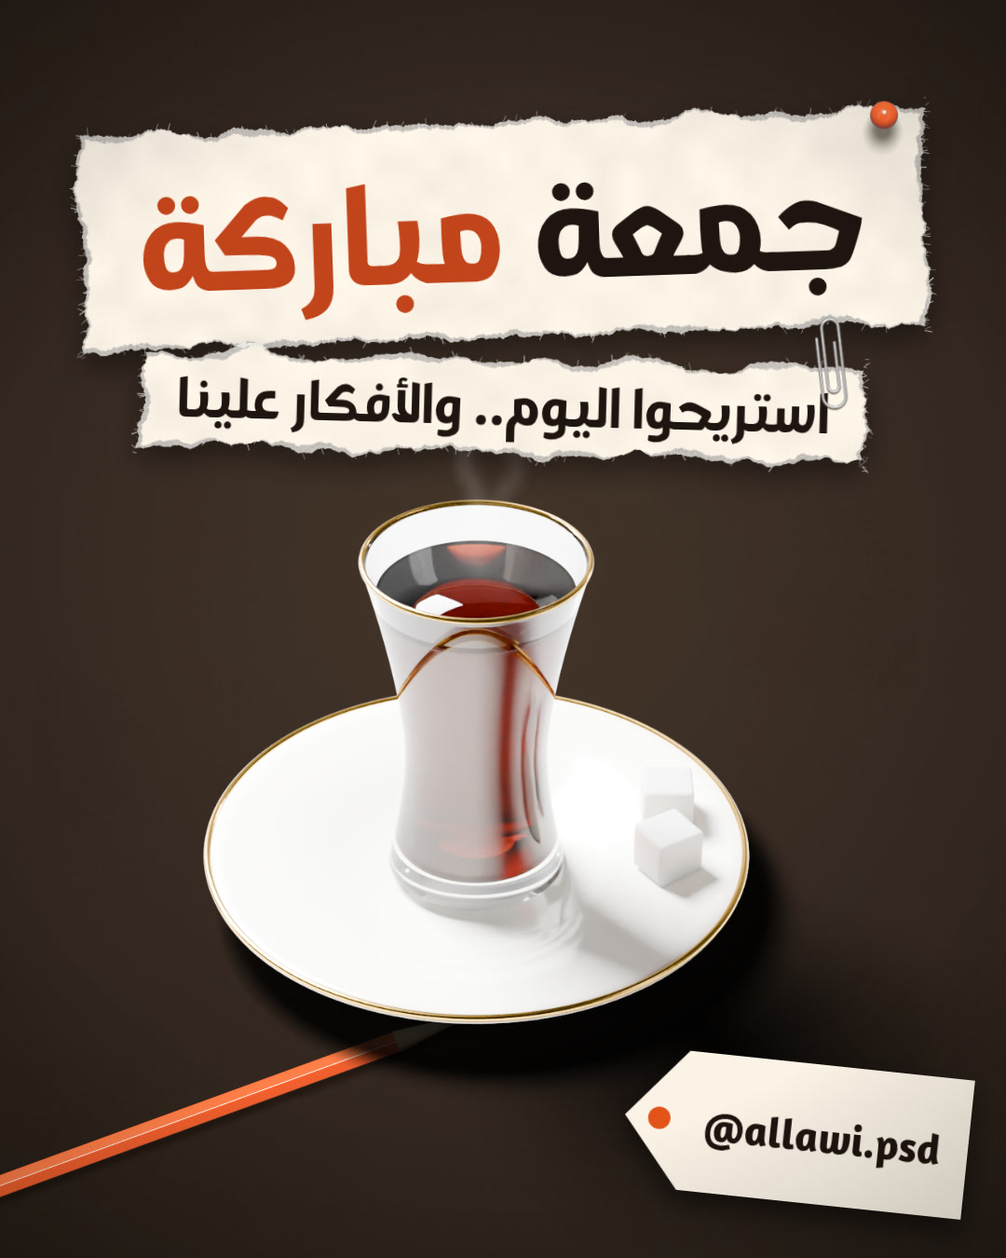
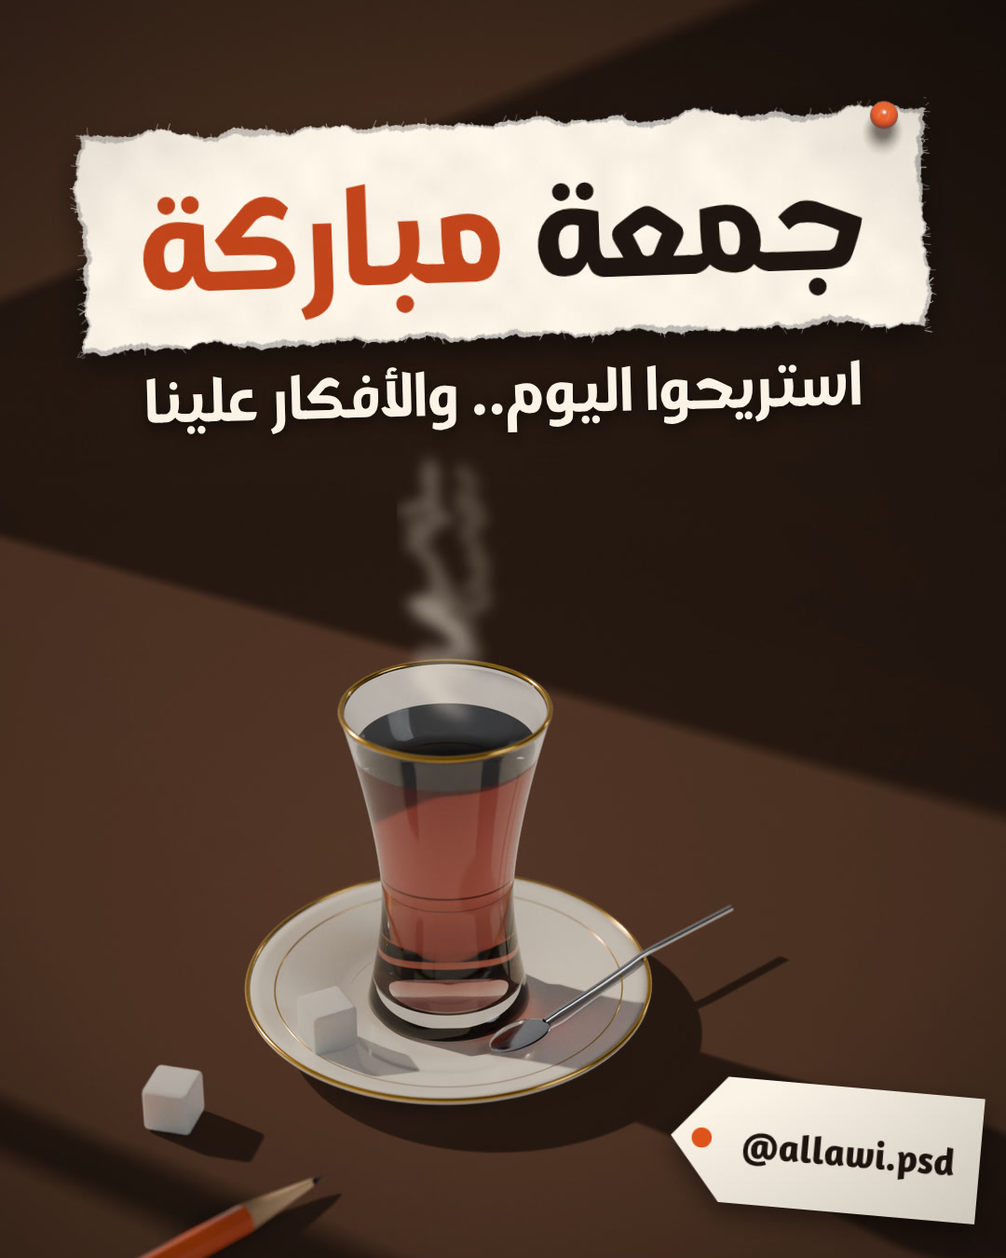
Friday post v2: photographic istikan in window light, clear glass, DOF
Claude-Session: https://claude.ai/code/session_01DCC6taaMNXtk2vTF7bYhTV

diff --git a/marketing/ig-friday-post/post.html b/marketing/ig-friday-post/post.html
@@ -9,9 +9,13 @@
 :root { --ink:#1f1510; --cream:#fbf3e6; --oink:#c2441a; --orange:#e2541b }
 * { margin:0; padding:0; box-sizing:border-box }
 body { background:#111; font-synthesis:none }
+/* the desk as the sun finds it: warm brown under the paper texture; the render on top darkens it where the window
+   frame and the objects throw their shadows */
 #post { position:relative; width:1080px; height:1350px; overflow:hidden; direction:rtl; font-family:'DG Sahabah'; font-weight:400;
-  background:radial-gradient(110% 80% at 50% 45%, #33241b, var(--ink) 62%, #140d09) }
-#post::before { content:''; position:absolute; inset:0; background:url(assets/paper.jpg) center/cover; mix-blend-mode:screen; opacity:.1 }
+  background:radial-gradient(120% 90% at 40% 70%, #57392a, #4a3122 50%, #3a261b) }
+#post::before { content:''; position:absolute; inset:0; background:url(assets/paper.jpg) center/cover; mix-blend-mode:multiply; opacity:.22 }
+#still { position:absolute; inset:0; width:1080px; height:1350px; z-index:5 }
+.hand { position:absolute; left:0; right:0; text-align:center; color:var(--cream); white-space:nowrap; z-index:8; text-shadow:0 4px 14px rgba(0,0,0,.5) }
 #grain { position:absolute; inset:0; background:url(assets/grain.png) repeat; background-size:420px; mix-blend-mode:overlay; opacity:.07; z-index:20 }
 #vig { position:absolute; inset:0; background:radial-gradient(100% 75% at 50% 50%, rgba(0,0,0,0) 55%, rgba(0,0,0,.35) 100%); z-index:19 }
 .strip { position:absolute; left:0; right:0; display:flex; justify-content:center; z-index:8 }
@@ -19,10 +23,8 @@ body { background:#111; font-synthesis:none }
   filter:drop-shadow(0 14px 16px rgba(0,0,0,.45)) }
 .strip .k { color:var(--oink) }
 .strip img { position:absolute; pointer-events:none }
-#tea { position:absolute; left:40px; top:535px; width:1040px; z-index:5 }
-#pencil { position:absolute; left:-200px; top:1170px; width:760px; transform:rotate(-20deg); z-index:4 }
-#steam { position:absolute; left:0; top:0; z-index:6; overflow:visible; filter:blur(7px) }
-#steam path { fill:none; stroke:#fff; stroke-linecap:round; stroke-width:16 }
+#steam { position:absolute; left:0; top:0; z-index:6; overflow:visible }
+#steam path { fill:none; stroke:#fff3e2; stroke-linecap:round; stroke-width:22 }
 .ktag { position:absolute; width:370px; height:150px; z-index:7; filter:drop-shadow(0 12px 14px rgba(0,0,0,.45)) }
 .ktag .tg { position:absolute; inset:0; background:var(--cream); clip-path:polygon(0 50%, 17% 0, 100% 0, 100% 100%, 17% 100%) }
 .ktag .hole { position:absolute; left:10%; top:50%; width:24px; height:24px; margin:-12px 0 0 -12px; border-radius:50%; background:var(--orange) }
@@ -33,15 +35,17 @@ body { background:#111; font-synthesis:none }
 <body>
 <div id="post">
   <div class="strip" style="top:120px; transform:rotate(-2deg)"><span style="padding:30px 70px 44px; font-size:150px; line-height:1.2">جمعة <span class="k">مباركة</span><img src="assets/pin-orange.png" alt="" style="right:10px; top:-14px; width:90px" /></span></div>
-  <div class="strip" style="top:375px; transform:rotate(1.5deg)"><span style="padding:18px 48px 28px; font-size:60px; line-height:1.3">استريحوا اليوم.. والأفكار علينا<img src="assets/clip-silver.png" alt="" style="right:16px; top:-58px; width:60px; transform:rotate(-8deg)" /></span></div>
-  <img id="pencil" src="assets/pencil.png" alt="" />
-  <img id="tea" src="assets/tea.png" alt="" />
+  <div class="hand" style="top:375px; font-size:66px; line-height:1.3; transform:rotate(-1.5deg)">استريحوا اليوم.. والأفكار علينا</div>
+  <img id="still" src="assets/still.png" alt="" />
   <svg id="steam" width="1080" height="1350" viewBox="0 0 1080 1350">
-    <path d="M500 600 C 478 570, 528 548, 505 515 S 520 470, 498 440" style="opacity:.18" />
-    <path d="M532 604 C 560 575, 515 552, 545 522 S 530 480, 555 450" style="opacity:.13" />
-    <path d="M516 610 C 503 590, 535 572, 517 548" style="opacity:.22" />
+    <defs><filter id="smoke" x="-50%" y="-50%" width="200%" height="200%"><feTurbulence type="fractalNoise" baseFrequency="0.011 0.028" numOctaves="3" seed="7" /><feDisplacementMap in="SourceGraphic" scale="70" /><feGaussianBlur stdDeviation="7" /></filter></defs>
+    <g filter="url(#smoke)" transform="translate(462 742)">
+      <path d="M0 0 C -25 -40, 30 -70, 5 -120 S 20 -190, -5 -240" style="opacity:.28" />
+      <path d="M30 4 C 55 -35, 10 -75, 40 -115 S 25 -175, 50 -215" style="opacity:.2" />
+      <path d="M14 8 C 0 -20, 30 -45, 12 -80" style="opacity:.3" />
+    </g>
   </svg>
-  <div class="ktag" style="right:40px; bottom:60px; transform:rotate(6deg)"><i class="tg"></i><i class="hole"></i><div>@allawi.psd</div></div>
+  <div class="ktag" style="right:34px; bottom:36px; transform:rotate(5deg) scale(.9); transform-origin:100% 100%"><i class="tg"></i><i class="hole"></i><div>@allawi.psd</div></div>
   <div id="vig"></div><div id="grain"></div>
 </div>
 <script src="tear.js"></script>

diff --git a/marketing/ig-friday-post/props/tea.py b/marketing/ig-friday-post/props/tea.py
@@ -1,12 +1,13 @@
-# An Iraqi استكان of tea on its saucer with two sugar cubes, for the Friday post. Rendered in Cycles at a three-quarter
-# view onto a shadow catcher (the PNG carries the glass and its shadow on transparency), lit by the CC0 «Studio Small 09»
-# HDRI plus a soft key from the top left, like the desk props of ../hf-one-second-reel.
-#   blender -b -P tea.py -- OUT.png [HDRI]
+# The Friday still: an Iraqi استكان of tea on its saucer, a teaspoon, two sugar cubes and his orange pencil, lit by warm
+# morning sun through a window (a window frame between the sun and the desk throws the pane shadows), shot like a photo
+# (a 60 mm lens at f/5, focused on the glass). Rendered in Cycles over a shadow catcher at the post's own frame
+# (1080×1350), so the PNG lays straight over the page's desk: objects, their shadows and the window shadow.
+#   blender -b -P tea.py -- OUT.png HDRI        (SAMPLES=24 PCT=30 for a quick test)
 import bpy, bmesh, math, sys, os
 from mathutils import Vector
 
 argv = sys.argv[sys.argv.index('--') + 1:]
-OUT, HDRI = argv[0], (argv[1] if len(argv) > 1 else None)
+OUT, HDRI = argv[0], argv[1]
 CM = 0.01
 
 
@@ -19,27 +20,49 @@ bpy.ops.wm.read_factory_settings(use_empty=True)
 sc = bpy.context.scene
 sc.render.engine = 'CYCLES'
 sc.cycles.device = 'CPU'
-sc.cycles.samples = int(os.environ.get('SAMPLES', 160))
+sc.cycles.samples = int(os.environ.get('SAMPLES', 192))
 sc.cycles.use_denoising = True
-sc.cycles.max_bounces = 16
-sc.cycles.transmission_bounces = 16
+sc.cycles.max_bounces = 24
+sc.cycles.transmission_bounces = 24
+sc.cycles.volume_bounces = 2
 sc.cycles.caustics_refractive = True
+sc.cycles.caustics_reflective = False
+sc.cycles.blur_glossy = 0.6
 sc.render.film_transparent = True
 sc.view_settings.view_transform = 'AgX'
-sc.render.resolution_x = sc.render.resolution_y = 1400
+sc.render.resolution_x, sc.render.resolution_y = 1080, 1350
+sc.render.resolution_percentage = int(os.environ.get('PCT', 150))
 sc.render.image_settings.color_mode = 'RGBA'
+
+# a dim room (the CC0 «Studio Small 09» HDRI, turned down) and the morning sun coming in from the back left
 w = bpy.data.worlds.new('w'); w.use_nodes = True; sc.world = w
-nt = w.node_tree
-if HDRI:
-    env = nt.nodes.new('ShaderNodeTexEnvironment'); env.image = bpy.data.images.load(HDRI)
-    nt.links.new(env.outputs['Color'], nt.nodes['Background'].inputs['Color'])
-    nt.nodes['Background'].inputs['Strength'].default_value = 0.7
-else:
-    nt.nodes['Background'].inputs['Color'].default_value = (0.5, 0.45, 0.4, 1)
-ld = bpy.data.lights.new('key', 'AREA'); ld.size = 0.25; ld.energy = 60
-lo = bpy.data.objects.new('key', ld); sc.collection.objects.link(lo)
-lo.location = (-0.18, 0.32, 0.42)
-lo.rotation_euler = (Vector((0, 0, 0.03)) - lo.location).to_track_quat('-Z', 'Y').to_euler()
+env = w.node_tree.nodes.new('ShaderNodeTexEnvironment'); env.image = bpy.data.images.load(HDRI)
+w.node_tree.links.new(env.outputs['Color'], w.node_tree.nodes['Background'].inputs['Color'])
+w.node_tree.nodes['Background'].inputs['Strength'].default_value = 0.22
+L = Vector((-0.62, 0.55, 0.52)).normalized()            # towards the sun
+sd = bpy.data.lights.new('sun', 'SUN'); sd.energy = 4.2; sd.angle = math.radians(1.6); sd.color = (1.0, 0.8, 0.58)
+so = bpy.data.objects.new('sun', sd); sc.collection.objects.link(so)
+so.rotation_euler = (-L).to_track_quat('-Z', 'Y').to_euler()
+
+# the window: a wall with a two-by-two paned opening between the sun and the desk (seen only through its shadow)
+def window(dist=0.42, hole=(0.34, 0.44), bar=0.018, off=(0.0, 0.0), bars=(-0.1, 0.1)):
+    n = L
+    u = n.cross(Vector((0, 0, 1))).normalized()
+    v = u.cross(n).normalized()
+    c = n * dist
+    hw, hh = hole[0] / 2, hole[1] / 2
+    ox, oy = off
+    rects = [(-3, 3, oy + hh, 3), (-3, 3, -3, oy - hh), (-3, ox - hw, oy - hh, oy + hh), (ox + hw, 3, oy - hh, oy + hh),
+             (ox + bars[0] - bar / 2, ox + bars[0] + bar / 2, oy - hh, oy + hh), (ox - hw, ox + hw, oy + bars[1] - bar / 2, oy + bars[1] + bar / 2)]
+    bm = bmesh.new()
+    for x0, x1, y0, y1 in rects:
+        vs = [bm.verts.new(c + u * x + v * y) for x, y in ((x0, y0), (x1, y0), (x1, y1), (x0, y1))]
+        bm.faces.new(vs)
+    me = bpy.data.meshes.new('window'); bm.to_mesh(me)
+    ob = bpy.data.objects.new('window', me); sc.collection.objects.link(ob)
+    ob.visible_camera = False
+    return ob
+window()
 
 
 def mat(name, color, rough=0.3, metal=0.0, trans=0.0, ior=1.45, sss=0.0, coat=0.0):
@@ -55,72 +78,146 @@ def mat(name, color, rough=0.3, metal=0.0, trans=0.0, ior=1.45, sss=0.0, coat=0.
     return m
 
 
-def lathe(name, prof, m, segs=128):
-    """A solid of revolution from a closed (r, z) profile in cm."""
+def spin(name, prof, mats, closed, segs=160, z0=0.0):
+    """A surface of revolution from an (r, z) polyline in cm; open profiles stay open (no closing edge)."""
     bm = bmesh.new()
-    vs = [bm.verts.new((r * CM, 0, z * CM)) for r, z in prof]
-    es = [bm.edges.new((vs[i], vs[(i + 1) % len(vs)])) for i in range(len(vs))]
+    vs = [bm.verts.new((r * CM, 0, (z + z0) * CM)) for r, z in prof]
+    es = [bm.edges.new((vs[i], vs[i + 1])) for i in range(len(vs) - 1)]
+    if closed:
+        es.append(bm.edges.new((vs[-1], vs[0])))
     bmesh.ops.spin(bm, geom=vs + es, cent=(0, 0, 0), axis=(0, 0, 1), angle=math.tau, steps=segs, use_duplicate=False)
-    bmesh.ops.remove_doubles(bm, verts=bm.verts, dist=1e-6)
-    bmesh.ops.recalc_face_normals(bm, faces=bm.faces)
+    bmesh.ops.remove_doubles(bm, verts=bm.verts, dist=1e-7)
     me = bpy.data.meshes.new(name); bm.to_mesh(me); me.shade_smooth()
-    ob = bpy.data.objects.new(name, me); sc.collection.objects.link(ob); me.materials.append(m)
+    ob = bpy.data.objects.new(name, me); sc.collection.objects.link(ob)
+    for m in mats:
+        me.materials.append(m)
     return ob
 
 
-def curve(z, r0, r1, n, z0, z1):
-    return [(r0 + (r1 - r0) * (0.5 - 0.5 * math.cos(math.pi * i / n)), z0 + (z1 - z0) * i / n) for i in range(n + 1)]
+def outward(ob, test):
+    """Flip every face if the face nearest `test` (a point in cm) does not point the way `test[3:]` says."""
+    me = ob.data
+    p = Vector(test[:3]) * CM
+    f = min(me.polygons, key=lambda f: (f.center - p).length)
+    if f.normal.dot(Vector(test[3:])) < 0:
+        for f in me.polygons:
+            f.flip()
+        me.update()
 
 
-# the glass: a thick base, a waist, a flared lip (outer up, inner down)
-def r_out(z):   # outer radius at height z (cm)
+# ── the istikan: a thick base, a waist, a flared lip. The surfaces are the real interfaces: air|glass outside and
+# above the tea, glass|tea (IOR 1.33/1.5) on the inner wall and floor below the tea line, tea|air on top.
+H, WALL, FLOOR, ZT = 8.6, 0.11, 0.75, 7.55
+def r_out(z):
     if z < 3.4:
         return 2.15 - 0.45 * math.sin(z / 3.4 * math.pi / 2)
     return 1.70 + 0.95 * ((z - 3.4) / 5.2) ** 1.5
-H = 8.6
-outer = [(0, 0), (2.0, 0), (2.15, 0.12)] + [(r_out(z), z) for z in [0.3 + i * (H - 0.3) / 40 for i in range(41)]]
-inner = [(r_out(z) - 0.11, z) for z in [H - i * (H - 0.75) / 40 for i in range(41)]] + [(0, 0.75)]
-glass = mat('glass', '#ffffff', rough=0.02, trans=1.0, ior=1.5)
-lathe('glass', outer + inner, glass)
-# the tea, nearly to the lip, deep amber
-tz = 7.7
-tea_prof = [(0, 0.74)] + [(r_out(z) - 0.10, z) for z in [0.77 + i * (tz - 0.77) / 30 for i in range(31)]] + [(0, tz)]
-tea = mat('tea', '#8a2f08', rough=0.03, trans=1.0, ior=1.34)
-vol = tea.node_tree.nodes.new('ShaderNodeVolumeAbsorption')
-vol.inputs['Color'].default_value = srgb('#b34a0c'); vol.inputs['Density'].default_value = 140
-tea.node_tree.links.new(vol.outputs[0], tea.node_tree.nodes['Material Output'].inputs['Volume'])
-lathe('tea', tea_prof, tea)
-# a gold line on the lip
-gold = mat('gold', '#e0b046', rough=0.18, metal=1.0)
-bpy.ops.mesh.primitive_torus_add(major_radius=r_out(H) * CM - 0.0005, minor_radius=0.0007, location=(0, 0, (H - 0.05) * CM), major_segments=128, minor_segments=12)
-bpy.context.active_object.data.materials.append(gold)
-# the saucer: white porcelain with a gold rim, the glass sitting in its well
-porc = mat('porc', '#f6f2ea', rough=0.12, sss=0.05, coat=0.4)
-sau = [(0, -0.5), (3.0, -0.5), (3.2, -0.42), (3.4, -0.2), (6.2, 0.25), (6.6, 0.45), (6.55, 0.6), (6.1, 0.48), (3.35, 0.05), (3.1, -0.15), (0, -0.15)]
-lathe('saucer', sau, porc)
-bpy.ops.mesh.primitive_torus_add(major_radius=6.55 * CM, minor_radius=0.0009, location=(0, 0, 0.55 * CM), major_segments=160, minor_segments=12)
-bpy.context.active_object.data.materials.append(gold)
-# lift everything so the saucer foot sits on the desk
-for o in sc.objects:
-    if o.type == 'MESH':
-        o.location.z += 0.5 * CM
-# two sugar cubes on the saucer
-sugar = mat('sugar', '#fbfaf6', rough=0.85, sss=0.3)
-nz = sugar.node_tree.nodes.new('ShaderNodeTexNoise'); nz.inputs['Scale'].default_value = 900
-bp = sugar.node_tree.nodes.new('ShaderNodeBump'); bp.inputs['Strength'].default_value = 0.6
-sugar.node_tree.links.new(nz.outputs['Fac'], bp.inputs['Height']); sugar.node_tree.links.new(bp.outputs['Normal'], sugar.node_tree.nodes['Principled BSDF'].inputs['Normal'])
-for (x, y, rz) in ((4.4, -1.6, 20), (4.9, 0.3, -12)):
-    bpy.ops.mesh.primitive_cube_add(size=1.25 * CM, location=(x * CM, y * CM, 1.35 * CM), rotation=(0, 0, math.radians(rz)))
+r_in = lambda z: r_out(z) - WALL
+SAU_TOP = 0.33           # the glass stands in the saucer's well
+steps = lambda a, b, n: [a + (b - a) * i / n for i in range(n + 1)]
+glass_prof = [(r_in(z), z) for z in steps(ZT, H - 0.02, 12)] + [(r_out(H) - 0.03, H + 0.015)] + \
+             [(r_out(z), z) for z in steps(H - 0.02, 0.3, 50)] + [(2.13, 0.1), (2.02, 0.0), (1.2, 0.0), (0, 0.06)]
+glass = mat('glass', '#ffffff', rough=0.0, trans=1.0, ior=1.5)
+g = spin('glass', glass_prof, [glass], closed=False, z0=SAU_TOP)
+outward(g, (r_out(5) * math.cos(0.01), r_out(5) * math.sin(0.01), 5 + SAU_TOP, 1, 0, 0))
+
+def tea_mat(name, ior):
+    m = mat(name, '#ffffff', rough=0.0, trans=1.0, ior=ior)
+    vol = m.node_tree.nodes.new('ShaderNodeVolumeAbsorption')
+    vol.inputs['Color'].default_value = srgb('#cc520a'); vol.inputs['Density'].default_value = 80
+    m.node_tree.links.new(vol.outputs[0], m.node_tree.nodes['Material Output'].inputs['Volume'])
+    return m
+tea_wall, tea_top = tea_mat('tea-glass', 1.33 / 1.5), tea_mat('tea-air', 1.33)
+tea_prof = [(0, FLOOR), (r_in(FLOOR), FLOOR)] + [(r_in(z), z) for z in steps(FLOOR, ZT, 40)][1:] + [(0, ZT)]
+t = spin('tea', tea_prof, [tea_wall, tea_top], closed=True, z0=SAU_TOP)
+bm = bmesh.new(); bm.from_mesh(t.data); bmesh.ops.recalc_face_normals(bm, faces=bm.faces); bm.to_mesh(t.data)
+for f in t.data.polygons:
+    f.material_index = 1 if f.normal.z > 0.9 and abs(f.center.z - (ZT + SAU_TOP) * CM) < 0.001 else 0
+
+gold = mat('gold', '#e3b24a', rough=0.16, metal=1.0)
+def ring(r, z, thick=0.07):
+    bpy.ops.mesh.primitive_torus_add(major_radius=r * CM, minor_radius=thick * CM, location=(0, 0, z * CM), major_segments=200, minor_segments=12)
+    o = bpy.context.active_object; o.data.materials.append(gold); o.data.shade_smooth()
+ring(r_out(H) - 0.05, H + SAU_TOP - 0.02)
+
+# ── the saucer: white porcelain, a gold rim and a fine gold line inside it
+porc = mat('porc', '#f7f2e9', rough=0.1, sss=0.04, coat=0.5)
+LIFT = 0.45
+sau = [(0, -0.45), (2.4, -0.45), (2.6, -0.4), (2.85, -0.2), (4.9, 0.2), (5.3, 0.38), (5.25, 0.5), (4.92, 0.41), (2.95, 0.05), (2.7, -0.12), (0, -0.12)]
+spin('saucer', sau, [porc], closed=True, z0=LIFT)
+s = sc.objects['saucer']; bm = bmesh.new(); bm.from_mesh(s.data); bmesh.ops.recalc_face_normals(bm, faces=bm.faces); bm.to_mesh(s.data)
+ring(5.26, 0.47 + LIFT, 0.06)
+ring(4.55, 0.33 + LIFT, 0.025)
+
+def z_sau(r):            # the saucer's top surface (cm, above the desk)
+    pts = [(0, -0.12), (2.7, -0.12), (2.95, 0.05), (4.92, 0.41), (5.25, 0.5), (9, 0.5)]
+    for (a, za), (b, zb) in zip(pts, pts[1:]):
+        if r <= b:
+            return LIFT + za + (zb - za) * (r - a) / (b - a)
+    return LIFT + 0.5
+
+# ── a teaspoon lying across the saucer to the right of the glass
+steel = mat('steel', '#d8d9dc', rough=0.12, metal=1.0)
+cx, cy, ang = 3.7, -0.9, math.radians(58)
+u = Vector((math.sin(ang), math.cos(ang), 0))
+P = lambda t: Vector((cx, cy, 0)) + u * t
+bowl_t = -2.6
+bp = P(bowl_t)
+bpy.ops.mesh.primitive_uv_sphere_add(radius=1, segments=48, ring_count=24, location=(bp.x * CM, bp.y * CM, (z_sau(bp.length) + 0.16) * CM))
+bowl = bpy.context.active_object; bowl.scale = (0.55 * CM, 0.95 * CM, 0.16 * CM); bowl.rotation_euler = (0, 0, -ang)
+bowl.data.materials.append(steel); bowl.data.shade_smooth()
+cu = bpy.data.curves.new('handle', 'CURVE'); cu.dimensions = '3D'; cu.bevel_depth = 0.085 * CM; cu.bevel_resolution = 4
+sp = cu.splines.new('POLY')
+ts = steps(-1.75, 5.2, 14)
+sp.points.add(len(ts) - 1)
+for p, tt in zip(sp.points, ts):
+    q = P(tt)
+    p.co = (q.x * CM, q.y * CM, (max(z_sau(q.length), z_sau(min(q.length, 5.25))) + 0.1) * CM, 1)
+hd = bpy.data.objects.new('handle', cu); sc.collection.objects.link(hd); cu.materials.append(steel)
+
+# ── two sugar cubes: one on the saucer, one on the desk
+sugar = mat('sugar', '#fbfaf6', rough=0.85, sss=0.35)
+nz = sugar.node_tree.nodes.new('ShaderNodeTexNoise'); nz.inputs['Scale'].default_value = 1100
+bpn = sugar.node_tree.nodes.new('ShaderNodeBump'); bpn.inputs['Strength'].default_value = 0.7
+sugar.node_tree.links.new(nz.outputs['Fac'], bpn.inputs['Height']); sugar.node_tree.links.new(bpn.outputs['Normal'], sugar.node_tree.nodes['Principled BSDF'].inputs['Normal'])
+for (x, y, z, rz) in ((-3.4, -1.9, z_sau(3.9) + 0.62, 18), (-7.4, -3.6, 0.62, -24)):
+    bpy.ops.mesh.primitive_cube_add(size=1.2 * CM, location=(x * CM, y * CM, z * CM), rotation=(0, 0, math.radians(rz)))
     c = bpy.context.active_object; c.data.materials.append(sugar)
-    b = c.modifiers.new('bv', 'BEVEL'); b.width = 0.0012; b.segments = 3
-# the desk under it: a shadow catcher
-bpy.ops.mesh.primitive_plane_add(size=1.0)
+    b = c.modifiers.new('bv', 'BEVEL'); b.width = 0.0013; b.segments = 3
+
+# ── his orange pencil, lying in front, out of focus
+paint = mat('paint', '#e2541b', rough=0.3, coat=0.35)
+wood = mat('wood', '#e3b98c', rough=0.75)
+lead = mat('lead', '#141416', rough=0.35, metal=0.4)
+pen = bpy.data.objects.new('pencil', None); sc.collection.objects.link(pen)
+R = 0.36
+def pcyl(name, m, r1, r2, x0, x1, segs, rot=0.0):
+    bm = bmesh.new(); bmesh.ops.create_cone(bm, cap_ends=True, segments=segs, radius1=r1 * CM, radius2=r2 * CM, depth=(x1 - x0) * CM)
+    me = bpy.data.meshes.new(name); bm.to_mesh(me)
+    if segs > 6:
+        me.shade_smooth()
+    o = bpy.data.objects.new(name, me); sc.collection.objects.link(o); me.materials.append(m)
+    o.rotation_mode = 'ZYX'; o.rotation_euler = (0, math.radians(90), rot); o.location = ((x0 + x1) / 2 * CM, 0, 0); o.parent = pen
+    return o
+body = pcyl('body', paint, R, R, -16, 0, 6, math.radians(30))
+bv = body.modifiers.new('bv', 'BEVEL'); bv.width = 0.03 * CM; bv.segments = 2
+pcyl('cone', wood, R * 0.93, 0.1, 0, 1.9, 48)
+pcyl('tip', lead, 0.1, 0.01, 1.9, 2.3, 32)
+pen.location = (-6.0 * CM, -8.0 * CM, R * math.cos(math.pi / 6) * CM)
+pen.rotation_euler = (0, 0, math.radians(32))
+
+# the desk: a shadow catcher
+bpy.ops.mesh.primitive_plane_add(size=3.0)
 bpy.context.active_object.is_shadow_catcher = True
-# camera: three-quarter view from the front, a little from the right
-cd = bpy.data.cameras.new('cam'); cd.lens = 85
+
+# ── the camera: low and close, a 60 mm lens at f/5 focused on the glass
+cd = bpy.data.cameras.new('cam'); cd.lens = 60; cd.sensor_fit = 'VERTICAL'; cd.sensor_height = 30
+cd.dof.use_dof = True; cd.dof.aperture_fstop = 5.0
 co = bpy.data.objects.new('cam', cd); sc.collection.objects.link(co); sc.camera = co
-el, az, d = math.radians(38), math.radians(-12), 0.64
-co.location = (d * math.cos(el) * math.sin(az), -d * math.cos(el) * math.cos(az), d * math.sin(el))
-co.rotation_euler = (Vector((0, 0, 0.035)) - co.location).to_track_quat('-Z', 'Y').to_euler()
+el, az, d = math.radians(26), math.radians(-10), 0.64
+tgt = Vector((0.018, 0.02, 0.1))
+co.location = tgt + Vector((d * math.cos(el) * math.sin(az), -d * math.cos(el) * math.cos(az), d * math.sin(el)))
+co.rotation_euler = (tgt - co.location).to_track_quat('-Z', 'Y').to_euler()
+cd.dof.focus_distance = (co.location - Vector((0, 0, 0.045))).length
 sc.render.filepath = OUT
 bpy.ops.render.render(write_still=True)

diff --git a/marketing/ig-friday-post/props/finish.py b/marketing/ig-friday-post/props/finish.py
@@ -1,14 +1,11 @@
-"""Feathers the edges of the tea render (the shadow catcher's shadow must fade out, not stop at the frame), then trims it.
-  python3 -I props/finish.py renders/tea-raw.png assets/tea.png"""
+"""Lightens the shadow catcher's shadows a little (the room isn't pitch dark outside the sunlight) and saves the still
+at the post's size.  python3 -I props/finish.py renders/still.png assets/still.png"""
 import sys
 import numpy as np
 from PIL import Image
 im = np.asarray(Image.open(sys.argv[1]).convert('RGBA')).astype(np.float32)
-h, w = im.shape[:2]
-y, x = np.mgrid[0:h, 0:w]
-d = np.minimum(np.minimum(x, w - 1 - x), np.minimum(y, h - 1 - y)).astype(np.float32)
-im[..., 3] *= np.clip(d / 140, 0, 1) ** 1.5
-out = Image.fromarray(im.clip(0, 255).astype(np.uint8), 'RGBA')
-out = out.crop(out.split()[3].point(lambda a: 255 if a > 2 else 0).getbbox())
+shadow = im[..., :3].max(axis=2) < 10           # the catcher writes pure black with the shadow in alpha
+im[..., 3] = np.where(shadow, im[..., 3] * 0.8, im[..., 3])
+out = Image.fromarray(im.clip(0, 255).astype(np.uint8), 'RGBA').resize((1080, 1350), Image.LANCZOS)
 out.save(sys.argv[2], optimize=True)
 print(out.size)

diff --git a/marketing/ig-friday-post/README.md b/marketing/ig-friday-post/README.md
@@ -1,16 +1,22 @@
 # «جمعة مباركة»: a Friday post for @allawi.psd (20 Oct)
 
-A 1080×1350 post in his highlights' look. The brown desk sits under the paper texture, «جمعة مباركة» is on a torn
-cream strip pinned with an orange pin, and «استريحوا اليوم.. والأفكار علينا» is on a second clipped strip. Below them
-is an Iraqi istikan of tea on a gold-rimmed saucer with two sugar cubes, with a little steam, his pencil and a kraft tag
-«@allawi.psd». DG Sahabah throughout.
+A 1080×1350 post in his look: the brown desk under the paper texture, «جمعة مباركة» on a torn cream strip with an
+orange pin, «استريحوا اليوم.. والأفكار علينا» in DG Sahabah, and a kraft tag «@allawi.psd».
+
+v2 (the user asked for "same post but better") is shot like a photo. An Iraqi istikan of tea stands on a gold-rimmed
+saucer with a teaspoon and two sugar cubes, with his orange pencil out of focus in front. Warm morning sun comes
+through a window, and the window frame's shadow falls across the desk. The render covers the whole frame, so the
+objects, their shadows and the window shadow lay straight over the page's desk. A turbulent CSS steam rises from the
+glass.
 
 - `out/friday.png` / `out/friday.jpg`: the post. `caption.txt`: the caption.
-- The tea is modelled and rendered for this post in Blender 4.2 (`props/tea.py`, lit by the CC0 Poly Haven «Studio
-  Small 09» HDRI from `../hf-vizion-trial-reel/props/hdri`), on a shadow catcher so it carries its own shadow:
-  `blender -b -P props/tea.py -- $PWD/renders/tea-raw.png ../hf-vizion-trial-reel/props/hdri/studio.hdr`, then
-  `python3 -I props/finish.py renders/tea-raw.png assets/tea.png`, which fades the shadow out at the edges and trims
-  the image. The tea touches the glass wall on purpose: a thin air gap between them turned the glass white.
-- The pencil, pin, clip, paper texture and grain are from `../hf-one-second-reel`. The torn paper is that reel's
-  `tear()` (`tear.js`).
+- `props/tea.py` (Blender 4.2, Cycles) builds the whole still, lit by the sun plus the CC0 Poly Haven «Studio Small 09»
+  HDRI at low strength: `blender -b -P props/tea.py -- $PWD/renders/still.png ../hf-vizion-trial-reel/props/hdri/studio.hdr`
+  (`SAMPLES=24 PCT=30` for a test; the final is `SAMPLES=160 PCT=150`, about 15 min on 4 cores). Then
+  `python3 -I props/finish.py renders/still.png assets/still.png` lightens the catcher's shadows a little and scales
+  the still to 1080×1350.
+- The glass is modelled with its real interfaces: air|glass outside and above the tea, glass|tea (IOR 1.33/1.5) on the
+  inner wall and floor below the tea line, and tea|air on top. v1 overlapped two separate solids, and the thin gap
+  between them made the glass look milky.
+- The pin, paper texture and grain are from `../hf-one-second-reel`; `tear.js` is that reel's torn paper.
 - `NODE_PATH=/opt/node-tools/node_modules node render.cjs` renders `post.html` to `out/friday.png`.
